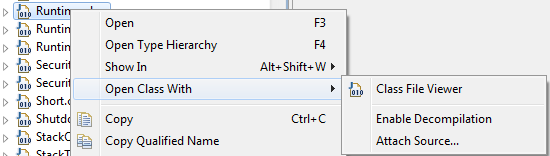
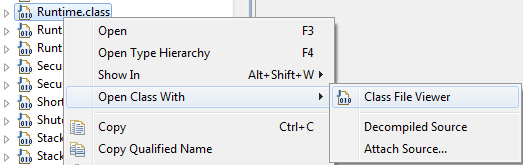
Update site to describe latest update (1.0.9)

diff --git a/index.html b/index.html
@@ -19,19 +19,25 @@ title: Home
 <p>Getting decompiled source for all the classes in a jar is as simple as right clicking a class and enabling decompilation.
 
 <ol>
-<li>When there is no source attached and decompilation is disabled:
+<li>When decompilation is disabled:
 
 <p><img src="img/jde_disabled.png">
 
-<li>When there is no source attached and decompilation is enabled:
+<li>When decompilation is enabled:
 
 <p><img src="img/jde_enabled.png">
 
-<li>When there is source attached already, if you want to get decompiled source you must first 
-manually update the attached source to remove the source attachment:
+<li>You can also right click on a package:
 
-<p><img src="img/jde_attached.png">
+<p><img src="img/jde_package_enabled.png">
+
+<li>Or you can right click on a jar:
+
+<p><img src="img/jde_jar_enabled.png">
+
 </ol>
+
+<p>NOTE: You will only be given the options to attach source or decompiled source if you have selected a <b>single</b> class, package or jar.
 
 <p>Further details about how this plugin works can be found <a href="http://mchr3k-coding.blogspot.co.uk/2012/08/jd-eclipse-realign-source-lifetime.html">on my blog</a>.
 
@@ -40,6 +46,12 @@ manually update the attached source to remove the source attachment:
 <h2>Features</h2>
 
 <p>This project adds the following:
+
+<h3>28/08/2012 (1.0.9)</h3>
+
+<ul>
+<li>Resolve <a href="https://github.com/mchr3k/jdeclipse-realign/issues/5">issue 5</a>. Enable context menu in Project Explorer, allow one click enable decompilation, enable context menu on packages and jars.
+</ul>
 
 <h3>08/08/2012 (1.0.8)</h3>
 
